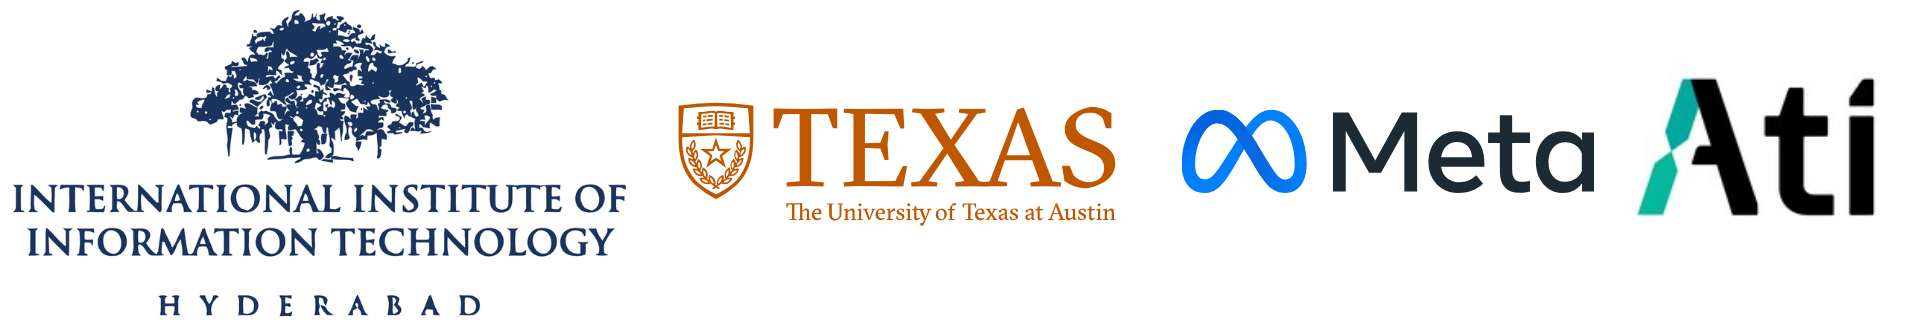
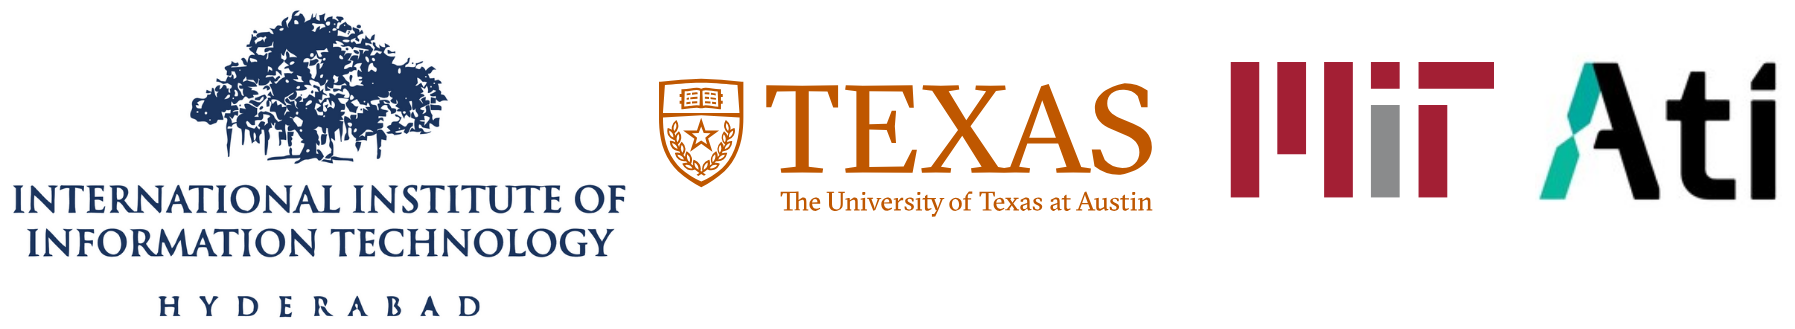
Added: action model for global embedding of state-action seq

Changed region(s): [[0.0, 0.1852, 0.9983, 0.8025], [0.0936, 0.0309, 0.2496, 0.4938], [0.0624, 0.8951, 0.2808, 0.9877]]

diff --git a/sparseloc/index.html b/sparseloc/index.html
@@ -123,7 +123,7 @@
           <div class="is-size-5 publication-authors">
             <span class="author-block"><sup>1</sup>IIIT Hyderabad,</span>
             <span class="author-block"><sup>2</sup>University of Texas, Austin</span>
-            <span class="author-block"><sup>3</sup>FAIR, Meta</span>
+            <span class="author-block"><sup>3</sup>MIT</span>
             <span class="author-block"><sup>4</sup>Ati Motors</span>
           </div>
 
